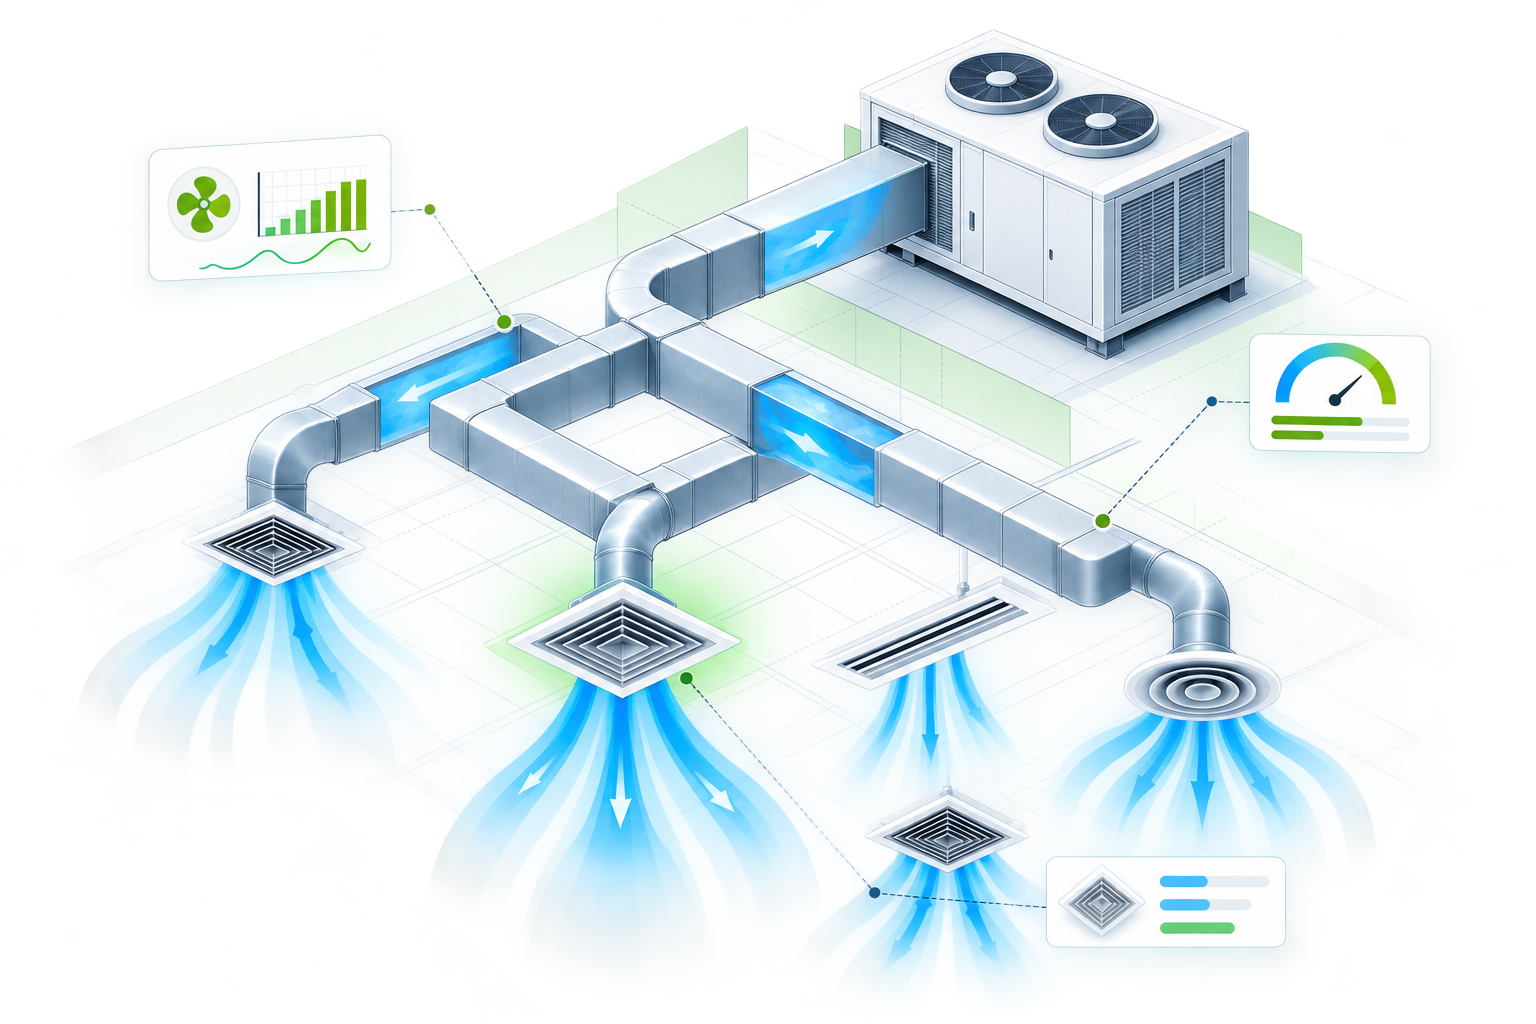
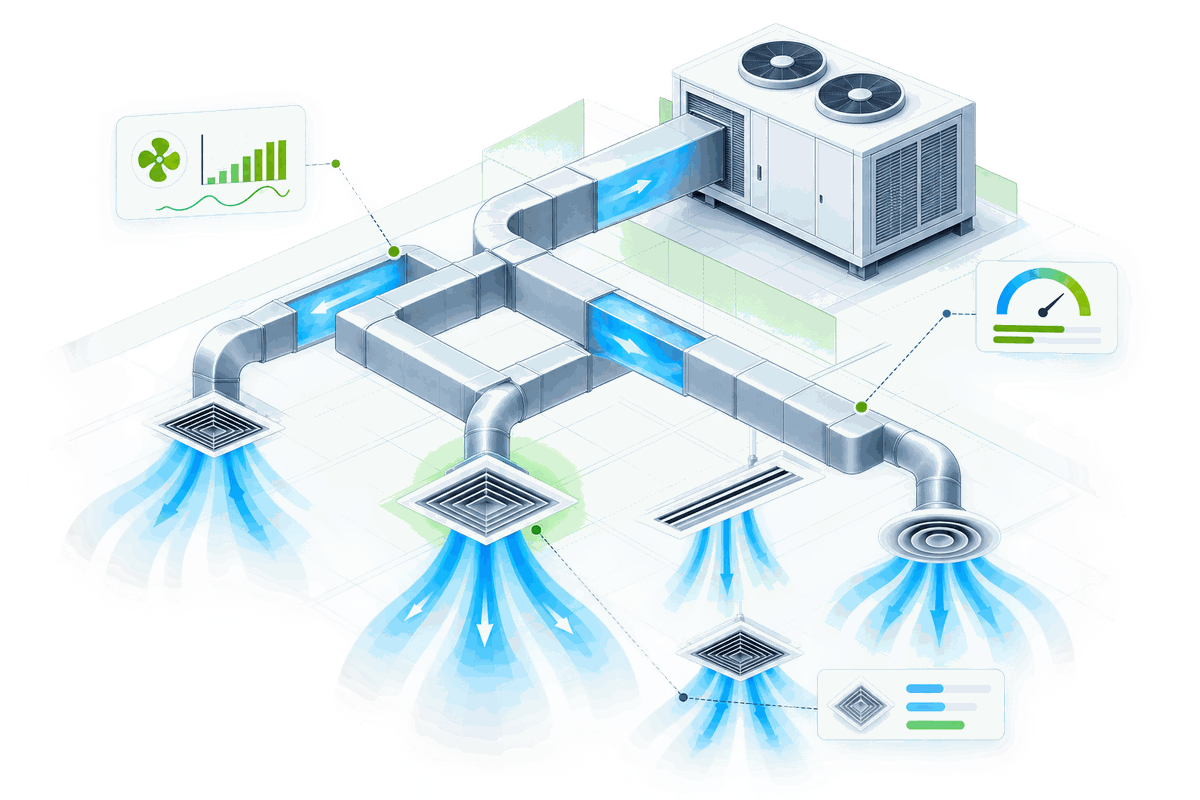
AirSizer hero artwork; span the capability strip across the tile grid
The re-saved AirSizer image decodes cleanly, so the module home page now
shows it instead of the drawn DuctArt fallback. Resampled to 1200 px and
palettised (2.17 MB -> 186 KB) with its alpha kept, so the drawing sits on
the page canvas rather than in a box.

On the sign-in screen the capability strip packed to the left and stopped
short of the tiles above it. It is now distributed across the same width:
"Secure Access" starts on the first tile's left edge and "Seamless
Integration" finishes on the last tile's right edge — measured at 52.0 and
772.0 against the grid's own bounds.

Changed region(s): [[0.5858, 0.7812, 0.6475, 0.8438], [0.1542, 0.5, 0.2158, 0.5625], [0.8633, 0.3438, 0.8942, 0.375]]

diff --git a/frontend/src/theme.css b/frontend/src/theme.css
@@ -371,7 +371,7 @@ select:disabled, input:disabled { background: var(--field); color: #A0A3AC; curs
 }
 
 .module-grid {
-  list-style: none; margin: 0 0 24px; padding: 0;
+  list-style: none; margin: 0 0 22px; padding: 0;
   display: grid; grid-template-columns: repeat(4, minmax(0, 1fr)); gap: 13px;
 }
 .module-tile {
@@ -393,16 +393,20 @@ select:disabled, input:disabled { background: var(--field); color: #A0A3AC; curs
 .tone-amber  { color: #E0A92E; }
 .tone-rose   { color: #E2536B; }
 
+/* Spread across the tile grid above: the first label sits on the grid's
+   left edge and the last finishes on its right edge, so the strip spans
+   exactly the width of the module tiles. */
 .capability-strip {
   list-style: none; margin: 0; padding: 0;
-  display: flex; flex-wrap: wrap; align-items: center; gap: 12px 26px;
+  display: flex; align-items: center; justify-content: space-between;
+  column-gap: 18px;
 }
 .capability-strip li {
   display: flex; align-items: center; gap: 9px;
   font-size: 12.5px; font-weight: 600; color: #46505F;
 }
-.capability-strip li svg { color: var(--ink-soft); }
-.capability-strip li + li { border-left: 1px solid var(--line); padding-left: 26px; }
+.capability-strip li svg { flex: none; color: var(--ink-soft); }
+.capability-strip li + li { border-left: 1px solid var(--line); padding-left: 18px; }
 
 /* ---- right: the sign-in card ---- */
 .signin-panel { display: flex; justify-content: center; }

diff --git a/frontend/src/airsizer/Home.jsx b/frontend/src/airsizer/Home.jsx
@@ -57,7 +57,7 @@ export default function Home({ ctx }) {
         </div>
         <div className="hero-slot">
           <HeroImage
-            src="/airsizer-home.jpg"
+            src="/airsizer-home.png"
             alt="Duct network with airflow and performance readouts"
             fallback={DuctArt}
           />

diff --git a/design-references/README.md b/design-references/README.md
@@ -14,14 +14,6 @@ transparent and the white letterforms recoloured to navy, giving the
 light-background lockup the reference uses. `public/maec-logo-dark.png` keeps
 the original for use on dark surfaces.
 
-## Missing: the AirSizer Pro hero
-
-`AirsizerPro home page.png` arrived truncated — the copy stopped about a third
-of the way in, so it has no PNG end marker and cannot be decoded. Save it again
-as:
-
-    frontend/public/airsizer-home.jpg
-
-`airsizer/Home.jsx` already points there and falls back to the drawn `DuctArt`
-until the file exists, so the page is never broken — the artwork simply appears
-once the file lands.
+`public/airsizer-home.png` is the supplied artwork, resampled to 1200 px and
+reduced to a 256-colour palette (2.17 MB -> 186 KB). Its alpha channel is kept,
+so the drawing sits directly on the page canvas rather than in a box.
